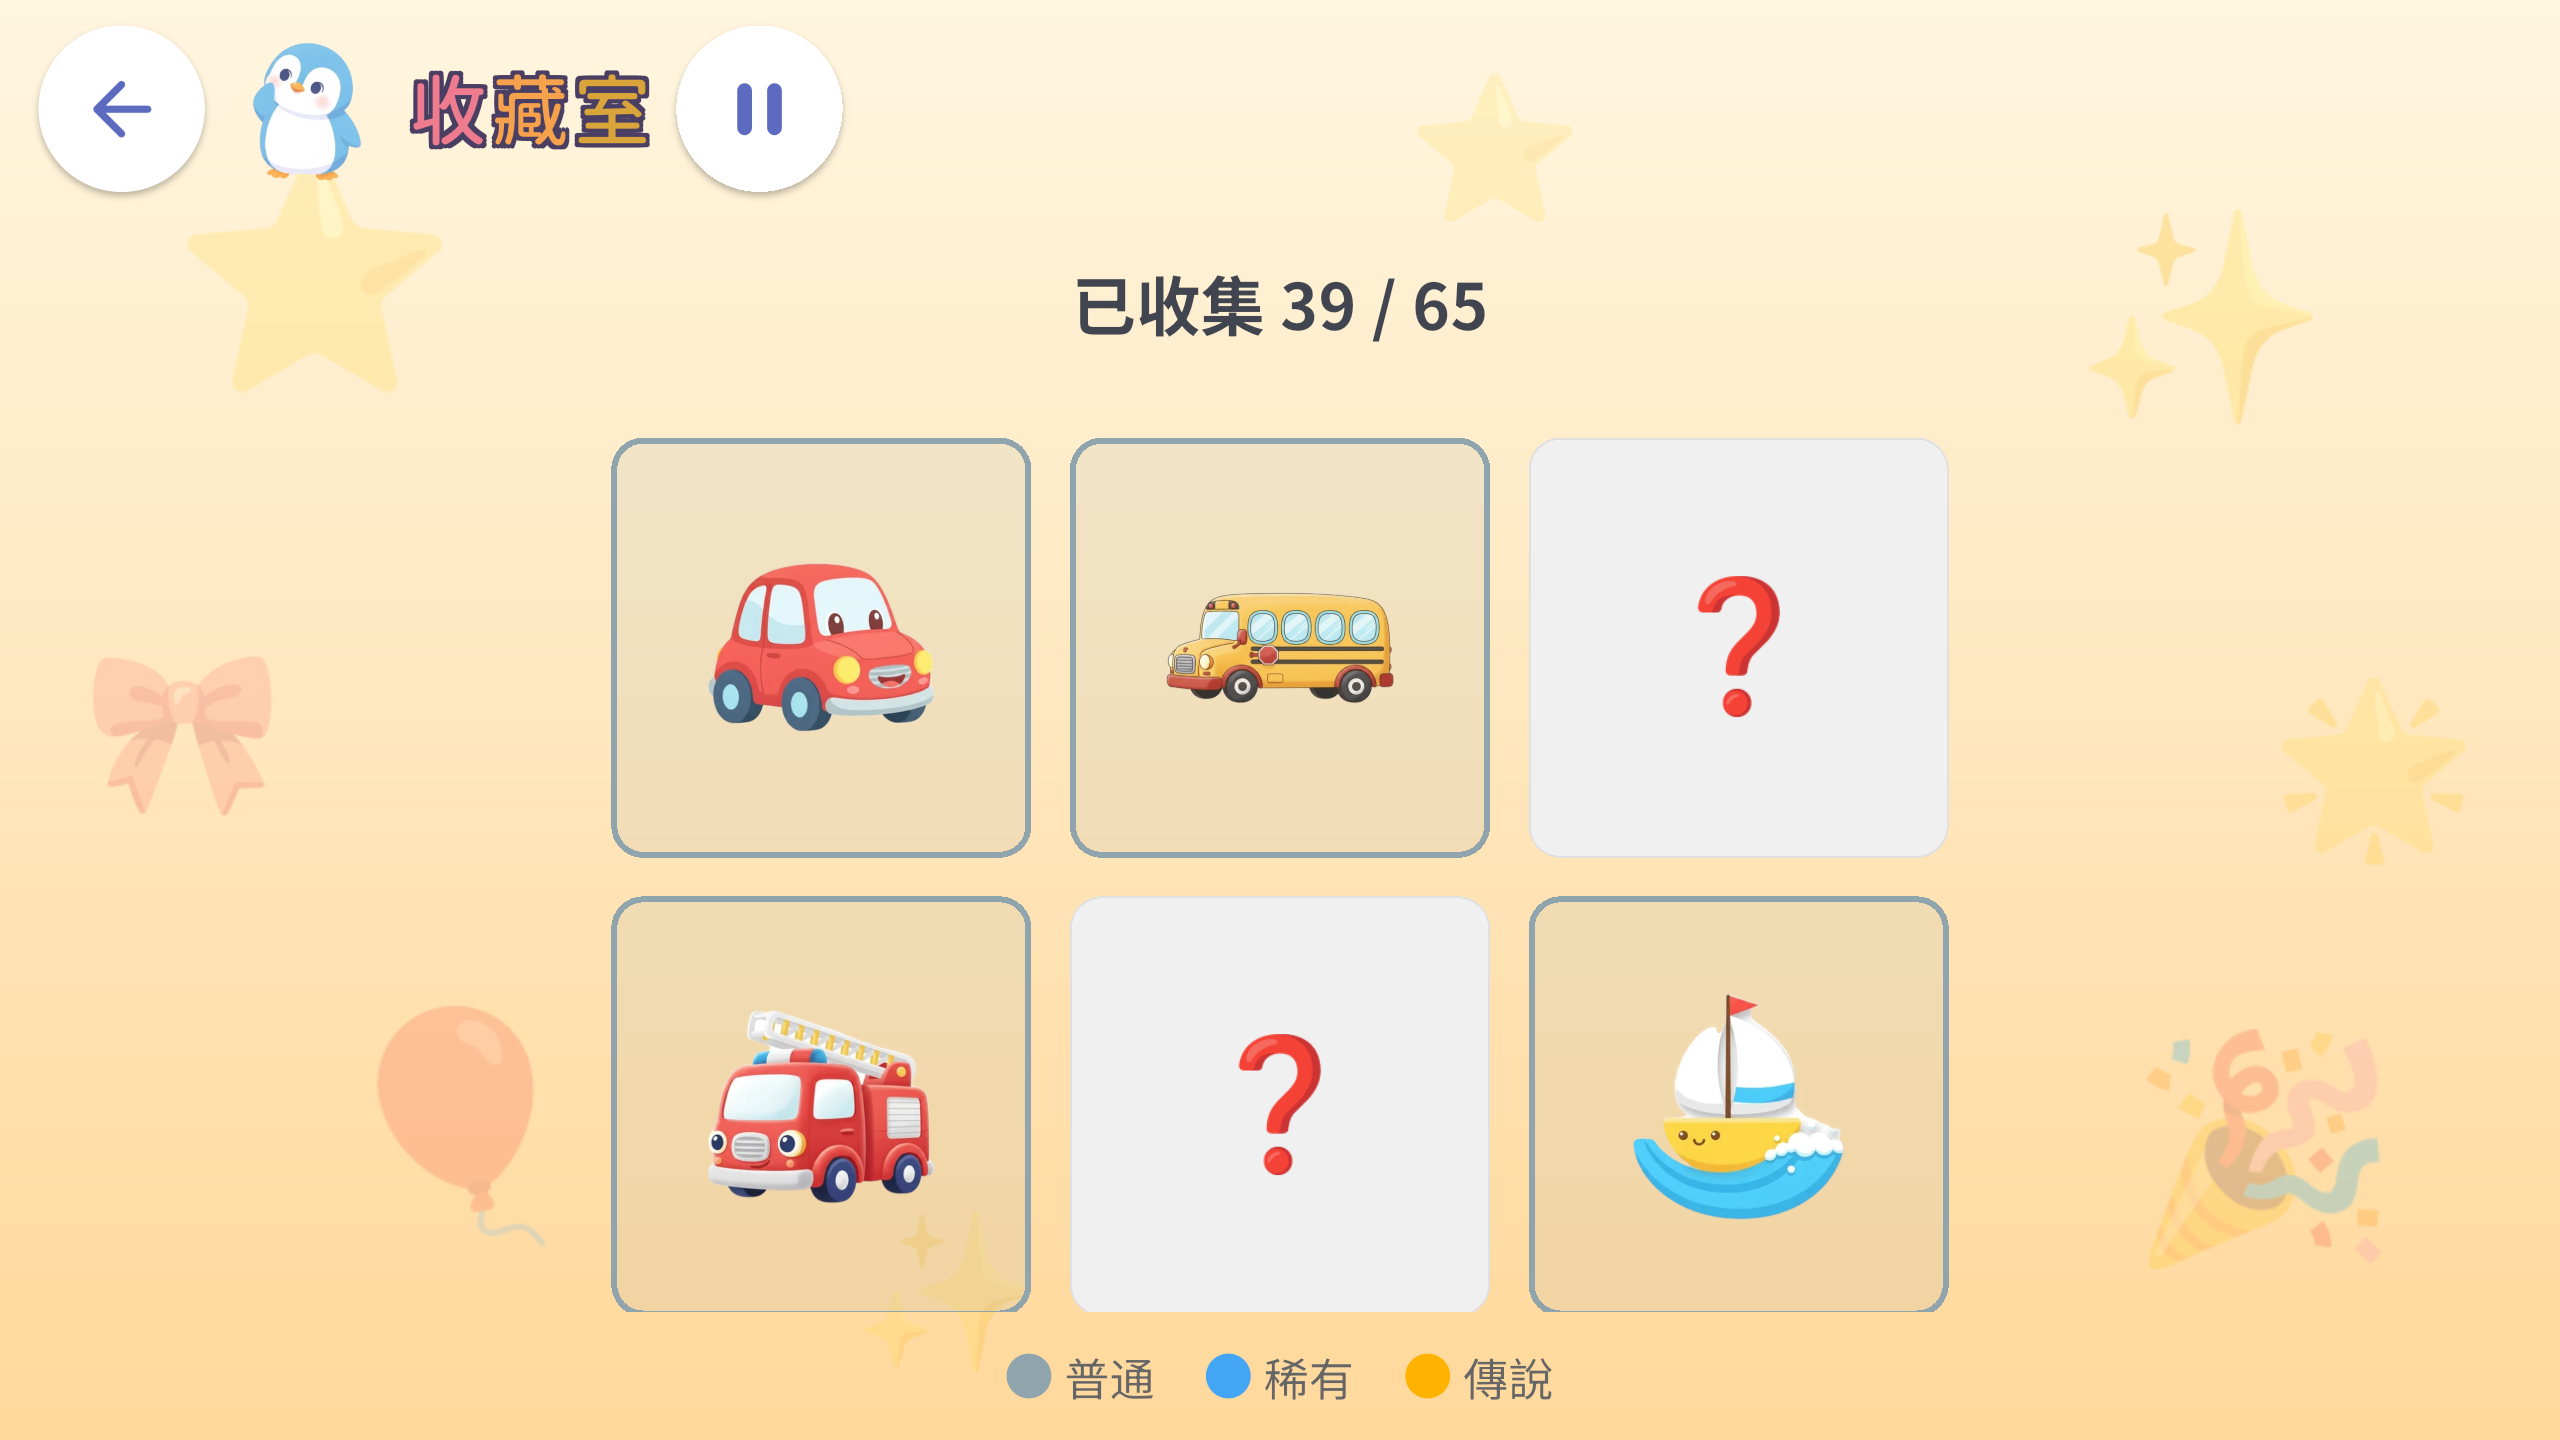
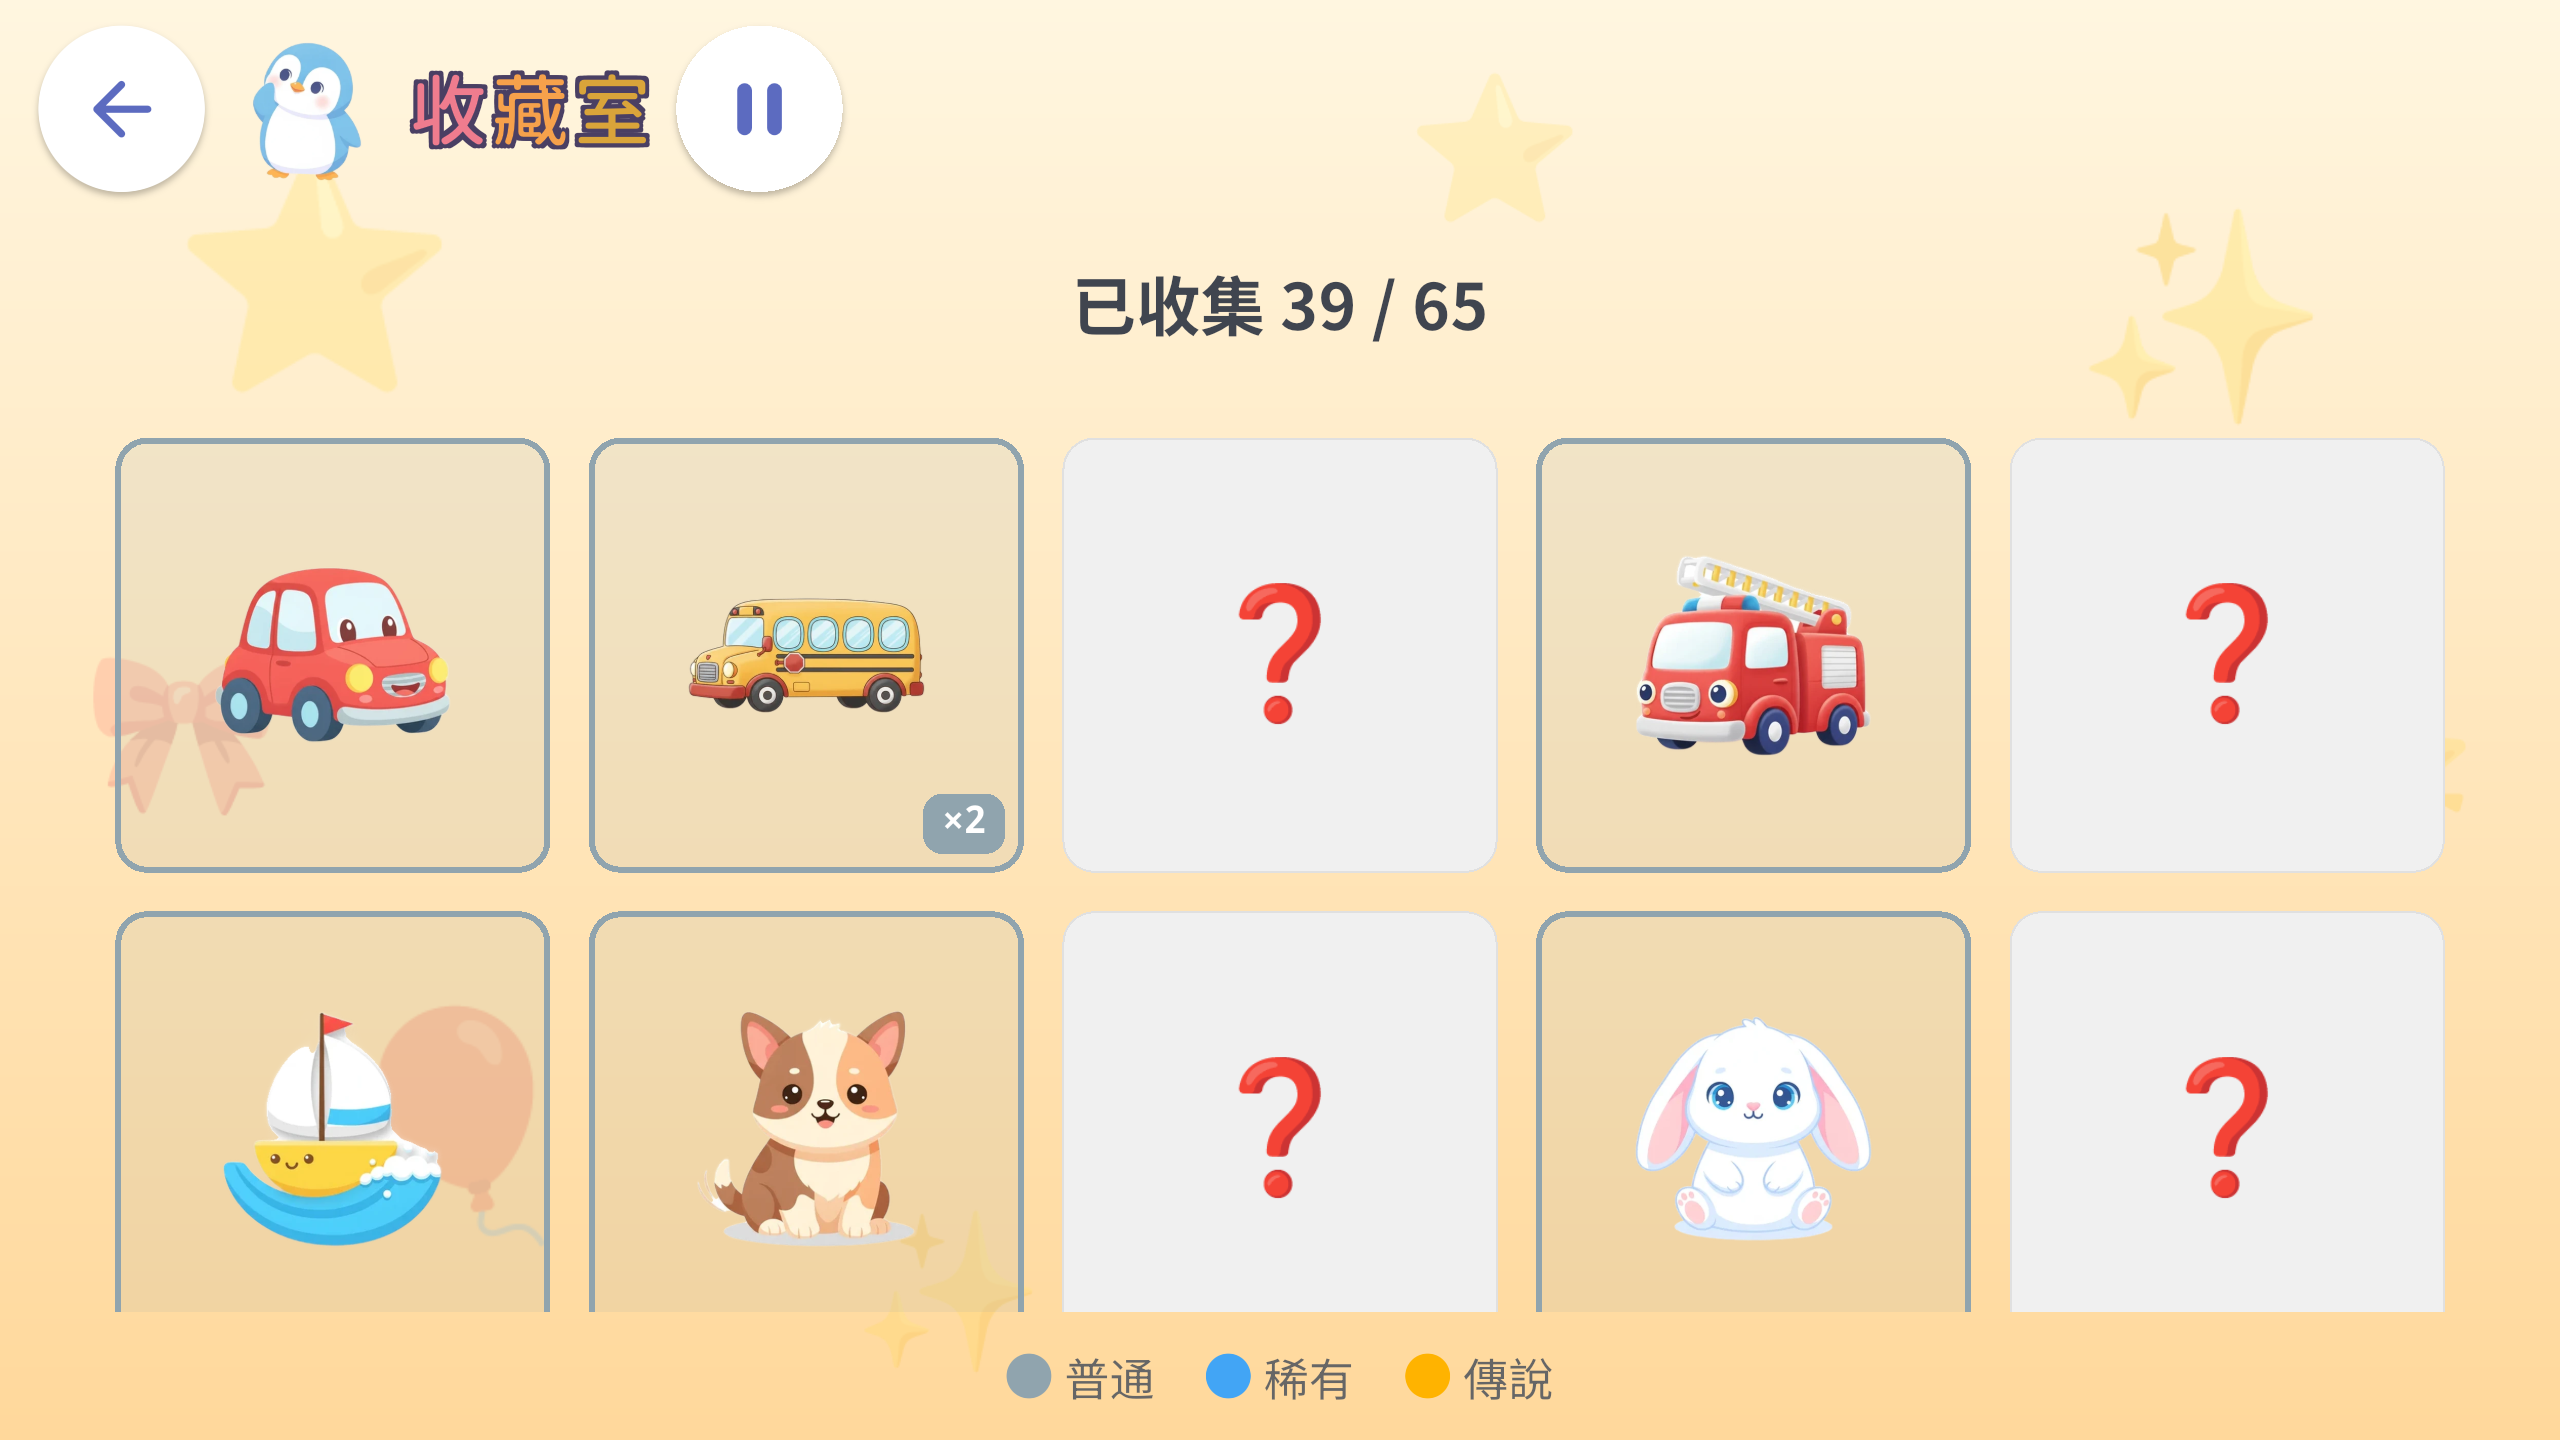
修三個畫面問題：徽章黑邊、收藏室只排 3 欄、顏色分類色球被切
- ferris/castle/magic_alchemy 徽章圖：生圖時是黑底，圓形裁切後露出黑邊 → 外圍改填白，和其他徽章一致
- 收藏室：寬度上限寫死 720 → context.s(760)，橫向平板由 3 欄變 5 欄
- 拖曳分類物件盤：固定 96 大小、橫向捲動 → 依可用空間算大小、必要時平均分列，全部一次看得到
- 商店截圖 2、7 換成修正後畫面

diff --git a/lib/games/drag_match_game.dart b/lib/games/drag_match_game.dart
@@ -193,23 +193,7 @@ class _DragMatchGameState extends State<DragMatchGame> {
             flex: 2,
             child: Padding(
               padding: EdgeInsets.all(context.s(Sizes.gap)),
-              child: Center(
-                child: SingleChildScrollView(
-                  scrollDirection: Axis.horizontal,
-                  child: Row(
-                    children: _remaining
-                        .map(
-                          (DragPiece p) => Padding(
-                            padding: EdgeInsets.symmetric(
-                              horizontal: context.s(10),
-                            ),
-                            child: _buildDraggable(p),
-                          ),
-                        )
-                        .toList(),
-                  ),
-                ),
-              ),
+              child: _buildPieceTray(),
             ),
           ),
         ],
@@ -352,8 +336,55 @@ class _DragMatchGameState extends State<DragMatchGame> {
     return Column(mainAxisSize: MainAxisSize.min, children: bits);
   }
 
-  Widget _buildDraggable(DragPiece p) {
-    final Widget content = _pieceContent(p, context.s(96));
+  /// 下半的物件盤：依可用空間算物件大小（必要時排成多列），全部一次看得到。
+  /// 舊版固定 context.s(96) 排一列橫向捲動，物件一多右邊就被切一半、孩子不知道還能捲。
+  Widget _buildPieceTray() {
+    return LayoutBuilder(
+      builder: (BuildContext context, BoxConstraints c) {
+        final int n = _remaining.length;
+        if (n == 0) return const SizedBox.shrink();
+        final double gap = context.s(Sizes.gap);
+        double best = 0;
+        int bestRows = 1;
+        for (int rows = 1; rows <= n; rows++) {
+          final int cols = (n / rows).ceil();
+          final double w = (c.maxWidth - gap * (cols - 1)) / cols;
+          final double h = (c.maxHeight - gap * (rows - 1)) / rows;
+          final double side = w < h ? w : h;
+          if (side > best) {
+            best = side;
+            bestRows = rows;
+          }
+        }
+        final double size = best.clamp(0.0, context.s(96));
+        // 平均分到各列（12 顆排 6+6，不要 11+1）。
+        final int perRow = (n / bestRows).ceil();
+        return Center(
+          child: Column(
+            mainAxisSize: MainAxisSize.min,
+            children: <Widget>[
+              for (int r = 0; r * perRow < n; r++) ...<Widget>[
+                if (r > 0) SizedBox(height: gap),
+                Row(
+                  mainAxisSize: MainAxisSize.min,
+                  children: <Widget>[
+                    for (int i = r * perRow; i < n && i < (r + 1) * perRow; i++)
+                      ...<Widget>[
+                        if (i > r * perRow) SizedBox(width: gap),
+                        _buildDraggable(_remaining[i], size),
+                      ],
+                  ],
+                ),
+              ],
+            ],
+          ),
+        );
+      },
+    );
+  }
+
+  Widget _buildDraggable(DragPiece p, double size) {
+    final Widget content = _pieceContent(p, size);
     return Draggable<DragPiece>(
       data: p,
       feedback: Transform.scale(scale: 1.15, child: content),

diff --git a/lib/screens/collection_screen.dart b/lib/screens/collection_screen.dart
@@ -21,7 +21,8 @@ class CollectionScreen extends StatelessWidget {
       backgroundWidget: const RewardBackground(),
       child: Center(
         child: ConstrainedBox(
-          constraints: const BoxConstraints(maxWidth: 720),
+          // 上限隨裝置縮放：寫死 720 在橫向平板只排得下 3 欄、兩側大片留白。
+          constraints: BoxConstraints(maxWidth: context.s(760)),
           child: Column(
             children: <Widget>[
               Padding(
